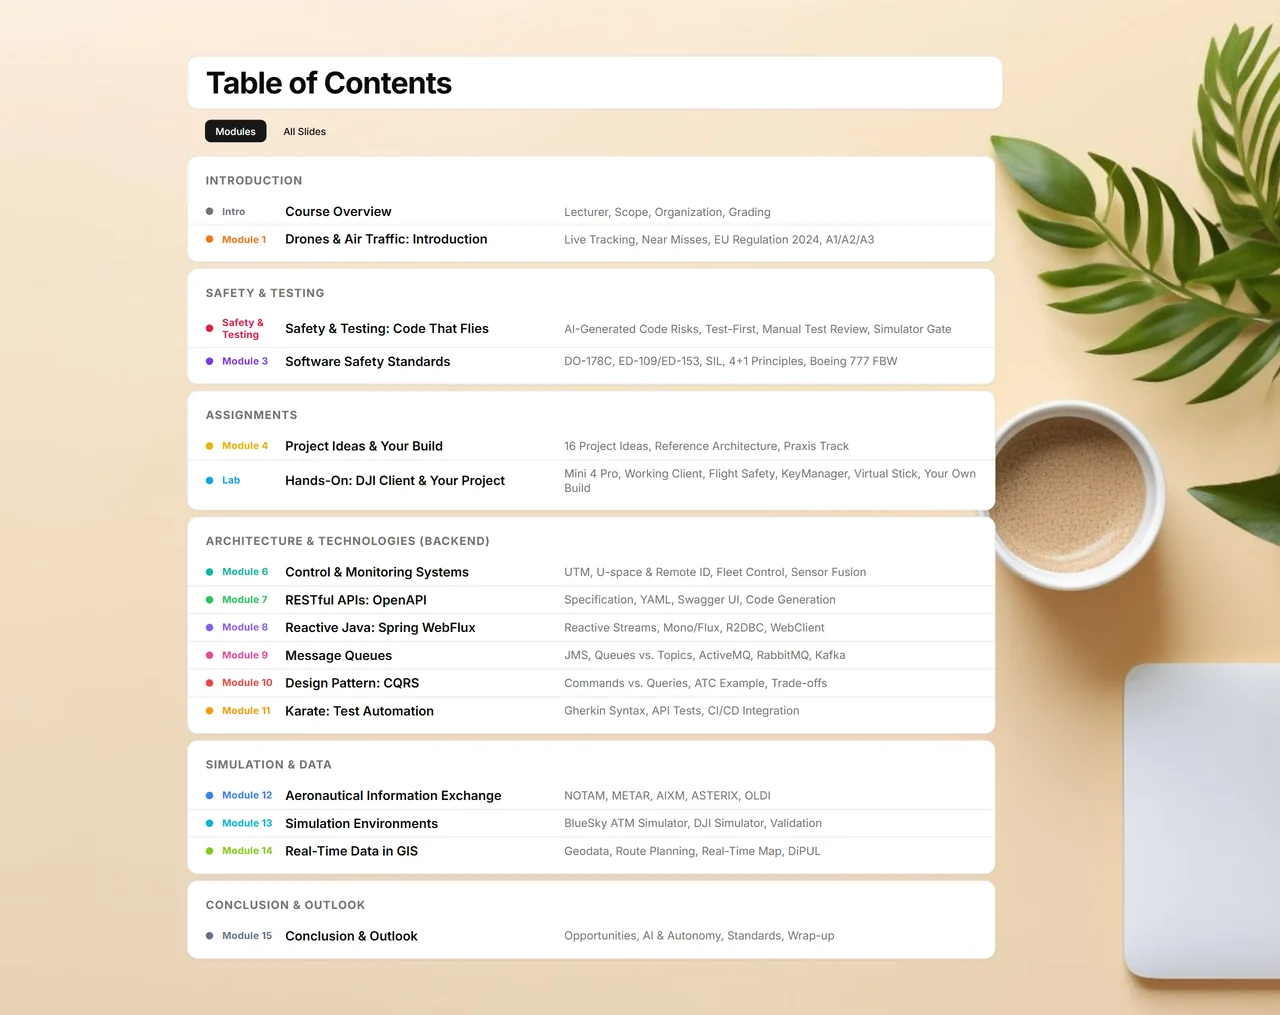
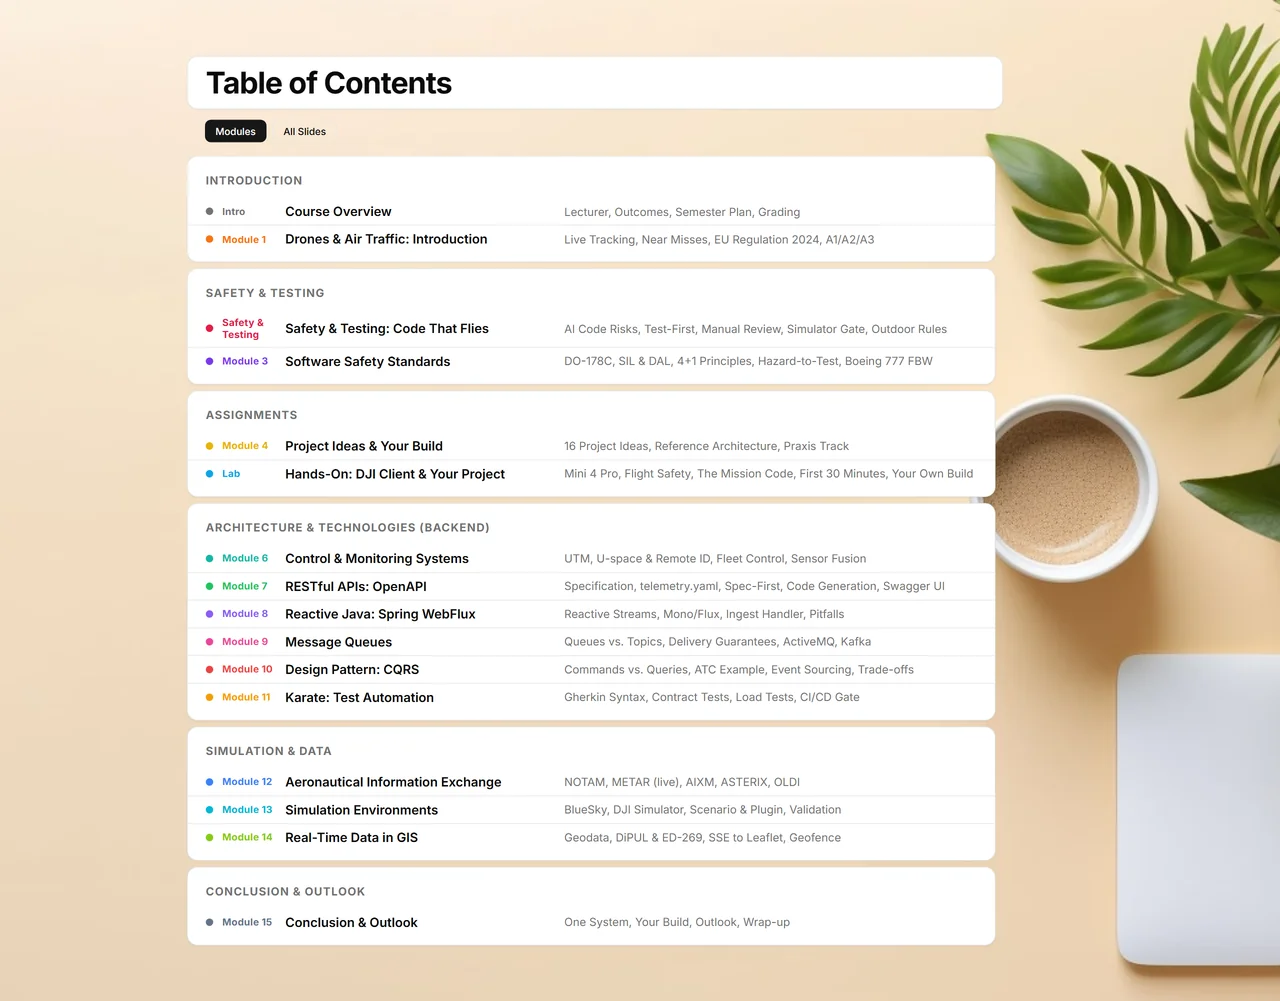
README: sync with the reworked deck
Add "How the Deck Is Built" (reference pipeline, telemetry.yaml contract,
module skeleton, graded deliverable) and the before-each-semester
placeholder note; refresh module one-liners and the content-editing
notes (tags, code/table notes); regenerate the TOC screenshot.

Claude-Session: https://claude.ai/code/session_01PZ4ALQSKaYZZmhHeqQX4XU

diff --git a/README.md b/README.md
@@ -1,10 +1,30 @@
 # Innovative Technologies for Drones<br><sub>Air Traffic Modeling</sub>
 
-University lecture slides — elective master module (WPM), Albstadt-Sigmaringen University of Applied Sciences. Intro plus 15 modules: a safety-and-testing gate, a hands-on DJI drone lab, the backend technology stack, and validation in the [BlueSky](https://github.com/TUDelft-CNS-ATM/bluesky) ATM simulator.
+University lecture slides — elective master module (WPM), Albstadt-Sigmaringen University of Applied Sciences. Intro plus 15 modules, 135 slides: a safety-and-testing gate, a hands-on DJI drone lab, the backend technology stack, and validation in the [BlueSky](https://github.com/TUDelft-CNS-ATM/bluesky) ATM simulator.
 
 ![Cover slide](.github/cover.webp)
 
 ![Table of Contents](.github/toc.webp)
+
+## How the Deck Is Built
+
+- **One system, module by module.** Every module is a station of the same reference pipeline —
+  DJI Mini 4 Pro → Android client (M5) → OpenAPI contract (M7) → WebFlux ingest (M8) →
+  telemetry topic (M9) → CQRS store (M10) / live map (M14) / avoidance logic validated in
+  BlueSky (M13), fed by NOTAM · METAR · AIXM (M12), inside a UTM picture (M6), contract-tested
+  with Karate (M11), guarded by the Safety & Testing gate (M2) and the DO-178C mindset (M3).
+  The diagram appears in the intro and is revisited in M15.
+- **One contract.** `telemetry.yaml` (M7) defines the `Fix` every later module reuses: the Android
+  client posts it, the ingest handler validates it, the topic fans it out, the map draws it,
+  Karate tests it.
+- **Same skeleton in every module:** why it matters for the drone → concept → real code or data →
+  exercise → takeaway. Code slides show real artifacts (the lab's mission code, a BlueSky
+  scenario and plugin, a live METAR call), not illustrations.
+- **One graded deliverable:** a working increment on the lab client, defended at a live demo.
+  Ideas, milestones and the grading bar are in M4; the safety gate every flight passes is M2.
+
+**Before each semester**, fill the placeholders marked `[date]` and `[__ %]` in
+`module_0.json` (semester plan, grading weights) and `module_4.json` (milestone dates).
 
 ## Quick Start
 
@@ -46,22 +66,22 @@ slides/
     drone.js              ← animated quadcopter for cover slides
   json/
     slides-config.json    ← metadata (title, modules, TOC, cover)
-    module_0.json         ← Intro: Course Overview
-    module_1.json         ← M1: Drones & Air Traffic: Introduction
-    module_2.json         ← M2: Safety & Testing (the gate before anything flies)
-    module_3.json         ← M3: Software Safety Standards
-    module_4.json         ← M4: Project Ideas & Your Build
-    module_5.json         ← M5: Lab — DJI Client & Your Project (fly it, then build your own)
-    module_6.json         ← M6: Control & Monitoring Systems (UTM)
-    module_7.json         ← M7: RESTful APIs: OpenAPI
-    module_8.json         ← M8: Reactive Java: Spring WebFlux
-    module_9.json         ← M9: Message Queues
-    module_10.json        ← M10: Design Pattern: CQRS
-    module_11.json        ← M11: Karate: Test Automation
-    module_12.json        ← M12: Aeronautical Information Exchange
-    module_13.json        ← M13: Simulation Environments (BlueSky)
-    module_14.json        ← M14: Real-Time Data in GIS
-    module_15.json        ← M15: Conclusion & Outlook
+    module_0.json         ← Intro: outcomes, semester plan, grading
+    module_1.json         ← M1: Drones & Air Traffic — incidents, EU 2019/947, A1/A2/A3
+    module_2.json         ← M2: Safety & Testing — the gate before anything flies
+    module_3.json         ← M3: Software Safety Standards — DO-178C, DAL, 4+1 principles
+    module_4.json         ← M4: Project Ideas & Your Build — 16 ideas, milestones, grading bar
+    module_5.json         ← M5: Lab — DJI client, the mission code, your own build
+    module_6.json         ← M6: Control & Monitoring Systems — UTM, U-space, fleet control
+    module_7.json         ← M7: RESTful APIs: OpenAPI — telemetry.yaml, the course contract
+    module_8.json         ← M8: Reactive Java: Spring WebFlux — ingest handler, pitfalls
+    module_9.json         ← M9: Message Queues — topics, delivery guarantees, Kafka
+    module_10.json        ← M10: Design Pattern: CQRS — plus event sourcing
+    module_11.json        ← M11: Karate: Test Automation — contract tests, load test, CI gate
+    module_12.json        ← M12: Aeronautical Information Exchange — NOTAM, METAR (live), AIXM, ASTERIX, OLDI
+    module_13.json        ← M13: Simulation Environments — BlueSky scenario & plugin
+    module_14.json        ← M14: Real-Time Data in GIS — DiPUL/ED-269, SSE to Leaflet, geofence
+    module_15.json        ← M15: Conclusion & Outlook — the system revisited
   images/
     bg/                   ← background images
     content/              ← slide content images (UTM diagram, METAR examples, etc.)
@@ -91,9 +111,14 @@ Edit the `json/module_*.json` files directly. Each file is a JSON array of slide
 
 Slide types:
 - **cover** — module title slide with badges and contents sidebar
-- **content** — teaching slide with body elements (cards, code, tables, quotes, images)
+- **content** — teaching slide with body elements (cards, code, tables, quotes, images, resource links)
 
-Cover navigation links are computed automatically at runtime.
+Content slides carry an optional `tag` that renders as a badge: `safety`, `important`, `demo`,
+`exercise`, `mistake`, `industry`, `takeaway`. Code blocks use `<span class="kw">` / `<span class="str">`
+for highlighting and an optional `note` below the block; tables accept an optional `note` too.
+
+Cover navigation links and the table of contents (`tocGroups` / `toc` in `slides-config.json`)
+are computed automatically at runtime.
 
 ## PDF Export
 
